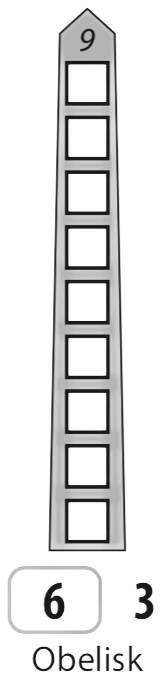
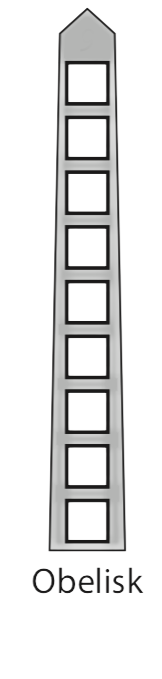
change images upon works completion

Changed region(s): [[0.0309, 0.8351, 0.9568, 0.9897], [0.6481, 0.9278, 0.8951, 0.9897], [0.4938, 0.0309, 0.5864, 0.0928]]

diff --git a/js/app.js b/js/app.js
@@ -85,7 +85,7 @@ class Player {
             completed: false,
             score: 1,
             cityBuilt: 0,
-            image: 'images/step_pyramid.png',
+            image: 'images/stepPyramid.png',
         },
         stoneCircle: {
             progress: 0,
@@ -93,7 +93,7 @@ class Player {
             completed: false,
             score: 2,
             cityBuilt: 0,
-            image: 'images/stone_circle.png',
+            image: 'images/stoneCircle.png',
         },
         temple: {
             progress: 0,
@@ -117,7 +117,7 @@ class Player {
             completed: false,
             score: 8,
             cityBuilt: 0,
-            image: 'images/hanging_garden.png',
+            image: 'images/hangingGarden.png',
         },
         greatWall: {
             progress: 0,
@@ -125,7 +125,7 @@ class Player {
             completed: false,
             score: 10,
             cityBuilt: 0,
-            image: 'images/great_wall.png',
+            image: 'images/greatWall.png',
         },
         greatPyramid: {
             progress: 0,
@@ -133,7 +133,7 @@ class Player {
             completed: false,
             score: 12,
             cityBuilt: 0,
-            image: 'images/great_pyramid.png',
+            image: 'images/greatPyramid.png',
         }
     }
     
@@ -377,6 +377,8 @@ const game = {
                         players[0].works[`${e.target.parentNode.id}`].completed = true;
                         players[0].score.monuments += players[0].works[`${e.target.parentNode.id}`].score;
                         players[0].citiesBuilt += players[0].works[`${e.target.parentNode.id}`].cityBuilt;
+                        players[0].works[`${e.target.parentNode.id}`].image = 'completed/' + players[0].works[`${e.target.parentNode.id}`].image
+                        console.log(players[0].works[`${e.target.parentNode.id}`].image)
                         players[0].calculateScore();
                     }
                     this.render();
